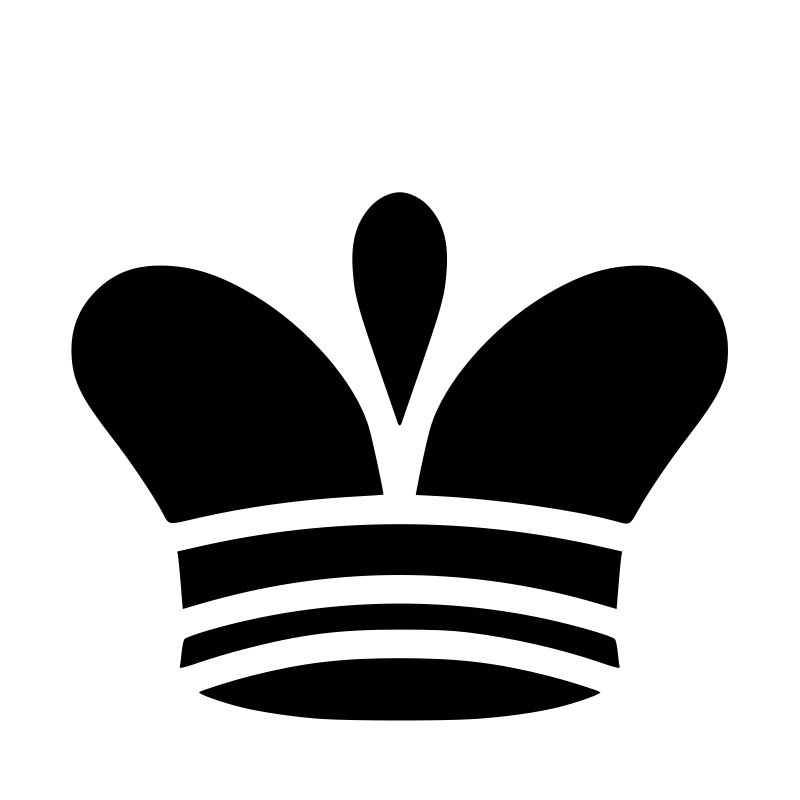
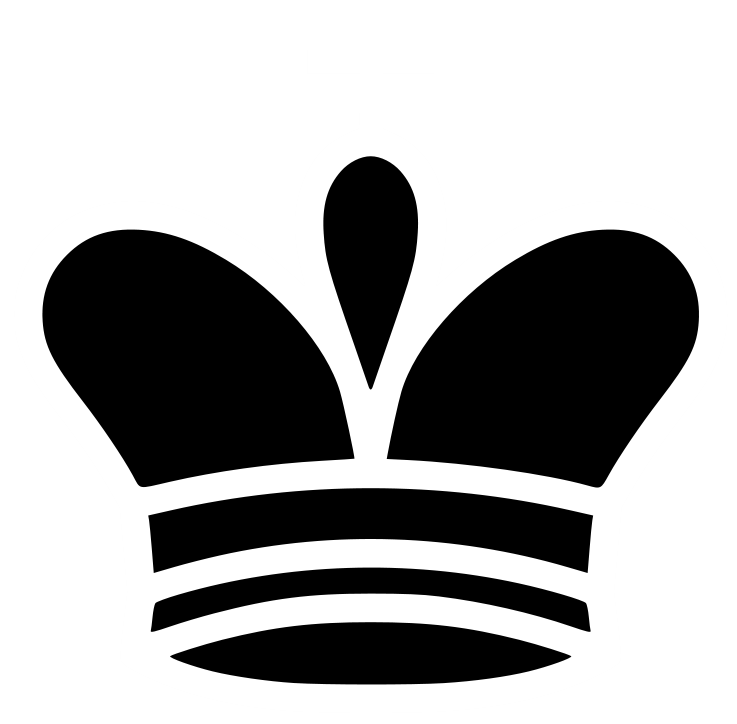
fixed castling bug, potential legal moves look more like chesscom now

diff --git a/src/components/Board/Board.jsx b/src/components/Board/Board.jsx
@@ -51,19 +51,17 @@ function Board({ shouldReset, setShouldReset }) {
       const newState = [...prevState];
 
       newState.forEach((square) => {
-        if (
-      square.squareName === promotionSquare
-        ) {
-          square.piece = piece
+        if (square.squareName === promotionSquare) {
+          square.piece = piece;
         }
       });
-//edits
+      //edits
       return newState;
     });
-    setIsPromotion(false)
-    setPromotionColor("")
-    setPromotionSquare("")
-  }
+    setIsPromotion(false);
+    setPromotionColor("");
+    setPromotionSquare("");
+  };
 
   const isSquareSeen = (coordinates, colorSeenBy, boardToCheck = boardData) => {
     const xCoordinate = coordinates[0];
@@ -886,6 +884,7 @@ function Board({ shouldReset, setShouldReset }) {
       !isSquareSeen([g8.xAxis, g8.yAxis], "white") &&
       !isSquareSeen([e8.xAxis, e8.yAxis], "white")
     ) {
+      // setHasBlackKingMoved(true)
       setBoardData((prevState) => {
         const newState = [...prevState];
 
@@ -915,6 +914,7 @@ function Board({ shouldReset, setShouldReset }) {
       !isSquareSeen([c8.xAxis, c8.yAxis], "white") &&
       !isSquareSeen([e8.xAxis, e8.yAxis], "white")
     ) {
+      // setHasBlackKingMoved(true);
       setBoardData((prevState) => {
         const newState = [...prevState];
 
@@ -1041,7 +1041,11 @@ function Board({ shouldReset, setShouldReset }) {
       setHasRookA8Moved(true);
     }
 
-    if (piece.includes("king-white") && newSquareName === "g1") {
+    if (
+      piece.includes("king-white") &&
+      newSquareName === "g1" &&
+      oldSquareCoordinates[0] === 5
+    ) {
       setBoardData((prevState) => {
         const newState = [...prevState];
 
@@ -1058,7 +1062,11 @@ function Board({ shouldReset, setShouldReset }) {
       });
     }
 
-    if (piece.includes("king-white") && newSquareName === "c1") {
+    if (
+      piece.includes("king-white") &&
+      newSquareName === "c1" &&
+      oldSquareCoordinates[0] === 5
+    ) {
       setBoardData((prevState) => {
         const newState = [...prevState];
 
@@ -1075,7 +1083,11 @@ function Board({ shouldReset, setShouldReset }) {
       });
     }
 
-    if (piece.includes("king-black") && newSquareName === "g8") {
+    if (
+      piece.includes("king-black") &&
+      newSquareName === "g8" &&
+      oldSquareCoordinates[0] === 5
+    ) {
       setBoardData((prevState) => {
         const newState = [...prevState];
 
@@ -1092,7 +1104,11 @@ function Board({ shouldReset, setShouldReset }) {
       });
     }
 
-    if (piece.includes("king-black") && newSquareName === "c8") {
+    if (
+      piece.includes("king-black") &&
+      newSquareName === "c8" &&
+      oldSquareCoordinates[0] === 5
+    ) {
       setBoardData((prevState) => {
         const newState = [...prevState];
 
@@ -1221,7 +1237,7 @@ function Board({ shouldReset, setShouldReset }) {
         squareData.squareName,
         selectedSquare.coordinates
       );
-    } else if(!isPromotion) {
+    } else if (!isPromotion) {
       setSelectedSquare({ piece, coordinates });
       // window.addEventListener("mouseup", handleMouseUp);
     }
@@ -1251,7 +1267,11 @@ function Board({ shouldReset, setShouldReset }) {
   return (
     <>
       <div className="board">
-        <PromotionSelector isOpen={isPromotion} color={promotionColor} handlePromotion={handlePromotion} />
+        <PromotionSelector
+          isOpen={isPromotion}
+          color={promotionColor}
+          handlePromotion={handlePromotion}
+        />
         <Pieces boardData={boardData} />
         <BoardBackground boardData={boardData} />
       </div>

diff --git a/src/components/BoardBackground/BoardBackground.css b/src/components/BoardBackground/BoardBackground.css
@@ -11,6 +11,7 @@
   padding: 5px;
   color: rgb(172, 175, 139);
   font-size: 1.5rem;
+  position: relative;
 }
 .board-background__square_light {
   background-color: rgb(245, 228, 182);
@@ -18,9 +19,29 @@
 .board-background__square_dark {
   background-color: rgb(80, 64, 19);
 }
-.board-background__square_legal {
+/* .board-background__square_legal {
   background-color: lightgreen;
 }
 .board-background__square_maybe-legal {
   background-color: pink;
+}
+.board-background__square_light.board-background__square_legal {
+  background-color: rgba(144, 238, 144, 0.8); 
+}
+
+.board-background__square_dark.board-background__square_legal {
+  background-color: rgba(0, 128, 0, 0.8); 
+} */
+
+.board-background__square_legal::after {
+  content: "";
+  right: 20px;
+  bottom: 20px;
+  width: 60px;
+  height: 60px;
+  background-color: rgba(128, 128, 128, 0.5); /* semi-transparent grey */
+  border-radius: 50%; /* makes it circular */
+  position: absolute;
+  z-index: 600;
+  pointer-events: none;
 }

diff --git a/src/components/Pieces/Pieces.css b/src/components/Pieces/Pieces.css
@@ -7,12 +7,15 @@
   height: 800px;
   width: 800px;
   z-index: 500;
+  /* padding: 5px; */
 }
 .piece {
   /* background-color: transparent; */
-  background-size: contain;
+  /* background-size: contain; */
+  background-size: 90%;
   background-position: center;
   background-repeat: no-repeat;
+  padding: 5px;
 }
 .piece__pawn-black {
   background-image: url("../../assets/blackPawn.png");

diff --git a/src/components/PromotionSelector/PromotionSelector.jsx b/src/components/PromotionSelector/PromotionSelector.jsx
@@ -1,12 +1,8 @@
 import "./PromotionSelector.css";
 function PromotionSelector({ isOpen, color, handlePromotion }) {
-  //   console.log("isOpen: ", xisOpen);
-  //   console.log("xcolor: ".xcolor);
-  //   const isOpen = false;
   if (!isOpen) {
     return null;
   }
-  //   const color = "black";
   if (color === "white") {
     return (
       <>

diff --git a/src/components/PromotionSelector/PromotionSelector.css b/src/components/PromotionSelector/PromotionSelector.css
@@ -20,6 +20,10 @@
   background-repeat: no-repeat;
 }
 
+.selector__button:hover {
+  cursor: pointer;
+}
+
 .selector__button_queen-white {
   background-image: url("../../assets/whiteQueen.png");
 }
